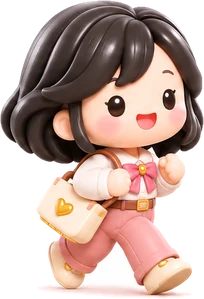
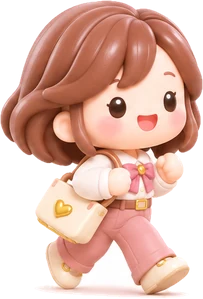
나(관리자) 캐릭터를 갈색 단발 그림으로 교체
Claude-Session: https://claude.ai/code/session_011wWXPaiuu8PZPFdYFKdKKY

diff --git a/src/avatars.ts b/src/avatars.ts
@@ -16,7 +16,7 @@ export const AVATARS: AvatarInfo[] = [
   { id: 'luna', name: '루나', emoji: '💜', role: '자료 검토', action: '책장에서 자료를 찾고 있어요', hair: '#9b7be0', outfit: '#c7b2f5', hairStyle: 'bun' },
   { id: 'coco', name: '코코', emoji: '🩵', role: '문서 작성', action: '컴퓨터로 문서를 쓰고 있어요', hair: '#5cc3d6', outfit: '#a8e6ef', hairStyle: 'bob' },
   { id: 'mimi', name: '미미', emoji: '💛', role: '일정·진행 관리', action: '달력을 확인하고 있어요', hair: '#f2b84b', outfit: '#ffe29a', hairStyle: 'long' },
-  { id: 'user', name: '나', emoji: '👩', role: '관리자', action: '미니 회사를 둘러보는 중이에요', hair: '#2f2a2e', outfit: '#ffffff', hairStyle: 'short' },
+  { id: 'user', name: '나', emoji: '👩', role: '관리자', action: '미니 회사를 둘러보는 중이에요', hair: '#8a4a3c', outfit: '#ffffff', hairStyle: 'short' },
 ]
 
 const DEFAULT_NAMES = Object.fromEntries(AVATARS.map((a) => [a.id, a.name])) as Record<AvatarId, string>

diff --git a/src/assets.gen.ts b/src/assets.gen.ts
@@ -107,28 +107,28 @@ export const ASSET_META = {
   },
   "user": {
    "stand": {
-    "w": 210,
+    "w": 208,
     "h": 295
    },
    "walk": {
-    "w": 204,
+    "w": 203,
     "h": 299
    },
    "work1": {
-    "w": 246,
+    "w": 239,
     "h": 298
    },
    "work2": {
-    "w": 226,
-    "h": 302
+    "w": 232,
+    "h": 301
    },
    "coffee": {
-    "w": 294,
-    "h": 305
+    "w": 287,
+    "h": 306
    },
    "cheer": {
-    "w": 250,
-    "h": 304
+    "w": 267,
+    "h": 305
    }
   }
  },
